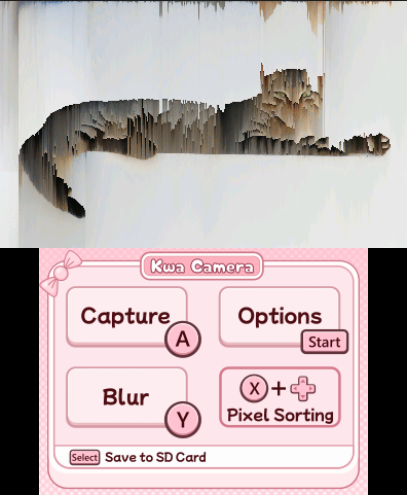
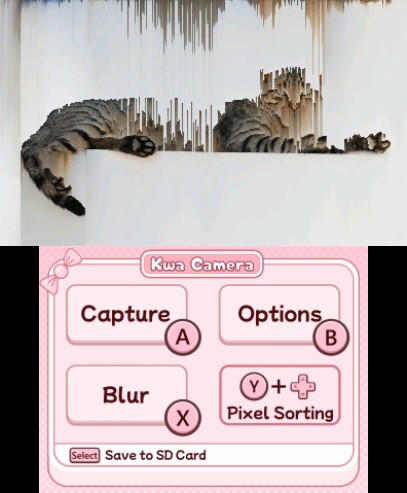
cleanup old terminal var, fix old options close button.

diff --git a/Source/main.c b/Source/main.c
@@ -115,7 +115,6 @@ int sort_threshold_max = 10;
 int top_dirty_frames = 0;
 int sort_accum_x = 0;
 int sort_accum_y = 0;
-bool bottom_needs_redraw = true;
 
 #define MENU_ITEMS 5
 #define SORT_METRIC_COUNT 4
@@ -698,7 +697,6 @@ int main(int argc, char* argv[]) {
 
     memset(cam_buf, 0, CAM_FRAME_BYTES);
 
-    bottom_needs_redraw = true;
 
     int menu_repeat_key = 0;
     int menu_repeat_frames = 0;
@@ -727,7 +725,6 @@ int main(int argc, char* argv[]) {
                     menu_open = 1;
                     menu_repeat_key = 0;
                     menu_repeat_frames = 0;
-                    bottom_needs_redraw = true;
                     play_sound(&snd_open, 1);
                     touch_held = true;
                 } else if (touch.px >= 18 && touch.px <= 152 && touch.py >= 108 && touch.py <= 182) {
@@ -740,17 +737,15 @@ int main(int argc, char* argv[]) {
             menu_open = !menu_open;
             menu_repeat_key = 0;
             menu_repeat_frames = 0;
-            bottom_needs_redraw = true;
             play_sound(&snd_open, 1);
         }
 
         if (menu_open) {
-            if (kDown & KEY_X) {
+            if (kDown & KEY_Y) {
                 menu_open = 0;
                 closed_menu_with_x = 1;
                 menu_repeat_key = 0;
                 menu_repeat_frames = 0;
-                bottom_needs_redraw = true;
                 play_sound(&snd_open, 1);
             }
 
@@ -759,7 +754,6 @@ int main(int argc, char* argv[]) {
                 if (menu_index < 0) menu_index = MENU_ITEMS - 1;
                 menu_repeat_key = 0;
                 menu_repeat_frames = 0;
-                bottom_needs_redraw = true;
                 play_sound(&snd_change, 1);
             }
             if (kDown & KEY_DDOWN) {
@@ -767,7 +761,6 @@ int main(int argc, char* argv[]) {
                 if (menu_index >= MENU_ITEMS) menu_index = 0;
                 menu_repeat_key = 0;
                 menu_repeat_frames = 0;
-                bottom_needs_redraw = true;
                 play_sound(&snd_change, 1);
             }
 
@@ -799,7 +792,6 @@ int main(int argc, char* argv[]) {
                         closed_menu_with_x = 1; /* reuse this to prevent sorting in the same frame */
                         menu_repeat_key = 0;
                         menu_repeat_frames = 0;
-                        bottom_needs_redraw = true;
                         play_sound(&snd_open, 1);
                         touch_held = true;
                     }
@@ -853,42 +845,32 @@ int main(int argc, char* argv[]) {
                 if (menu_index == 0 && contrast > CONTRAST_MIN) {
                     contrast--;
                     top_dirty_frames = 2;
-                    bottom_needs_redraw = true;
                 } else if (menu_index == 1 && blur_strength > BLUR_MIN) {
                     blur_strength--;
-                    bottom_needs_redraw = true;
                 } else if (menu_index == 2) {
                     sort_metric--;
                     if (sort_metric < 0) sort_metric = SORT_METRIC_COUNT - 1;
-                    bottom_needs_redraw = true;
                 } else if (menu_index == 3 && sort_threshold_min > 0) {
                     sort_threshold_min--;
-                    bottom_needs_redraw = true;
                 } else if (menu_index == 4 && sort_threshold_max > 0) {
                     sort_threshold_max--;
                     if (sort_threshold_max < sort_threshold_min) sort_threshold_min = sort_threshold_max;
-                    bottom_needs_redraw = true;
                 }
             }
             if (adjust > 0) {
                 if (menu_index == 0 && contrast < CONTRAST_MAX) {
                     contrast++;
                     top_dirty_frames = 2;
-                    bottom_needs_redraw = true;
                 } else if (menu_index == 1 && blur_strength < BLUR_MAX) {
                     blur_strength++;
-                    bottom_needs_redraw = true;
                 } else if (menu_index == 2) {
                     sort_metric++;
                     if (sort_metric >= SORT_METRIC_COUNT) sort_metric = 0;
-                    bottom_needs_redraw = true;
                 } else if (menu_index == 3 && sort_threshold_min < 10) {
                     sort_threshold_min++;
                     if (sort_threshold_min > sort_threshold_max) sort_threshold_max = sort_threshold_min;
-                    bottom_needs_redraw = true;
                 } else if (menu_index == 4 && sort_threshold_max < 10) {
                     sort_threshold_max++;
-                    bottom_needs_redraw = true;
                 }
             }
         } else {